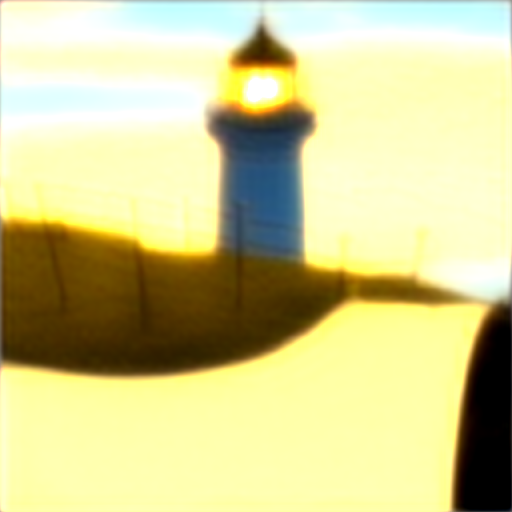
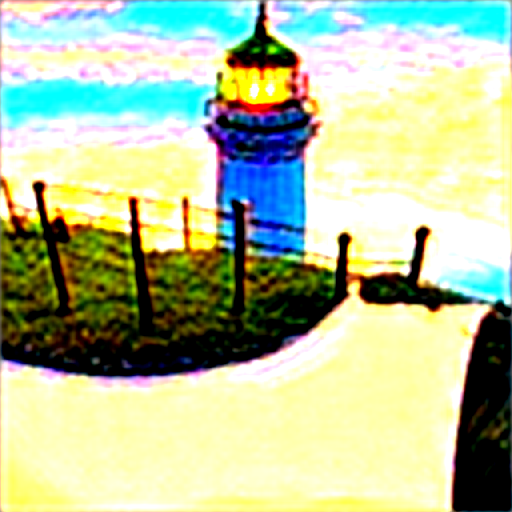
pipeline and outs

diff --git a/models/aerialbooth_noisy/pipeline.py b/models/aerialbooth_noisy/pipeline.py
@@ -565,27 +565,24 @@ class ImagicStableDiffusionPipeline(DiffusionPipeline):
         # noisy_latents = self.scheduler.add_noise(image_latents_hom, noise, timesteps)
         
         # latents = noisy_latents
-        if self.device.type == "mps":
-            # randn does not exist on mps
-            latents = torch.randn(latents_shape, generator=generator, device="cpu", dtype=latents_dtype).to(
-                self.device
-            )
-        else:
-            latents = torch.randn(latents_shape, generator=generator, device=self.device, dtype=latents_dtype)
-
-        
-        
+        # if self.device.type == "mps":
+        #     # randn does not exist on mps
+        #     latents = torch.randn(latents_shape, generator=generator, device="cpu", dtype=latents_dtype).to(
+        #         self.device
+        #     )
+        # else:
+        #     latents = torch.randn(latents_shape, generator=generator, device=self.device, dtype=latents_dtype)
         
         # noisy_latents =image_latents_hom + 0.1 * noise
 
         # print(f"noisy_latents: {noisy_latents.shape}")
 
-        if isinstance(image_hom, PIL.Image.Image):
-            self.image_hom = preprocess(image_hom).to(self.device)
-        init_latent_image_dist_hom = self.vae.encode(self.image_hom).latent_dist
-        image_latents_hom = init_latent_image_dist_hom.sample(generator=generator)
+        # if isinstance(image_hom, PIL.Image.Image):
+        #     self.image_hom = preprocess(image_hom).to(self.device)
+        # init_latent_image_dist_hom = self.vae.encode(self.image_hom).latent_dist
+        # image_latents_hom = init_latent_image_dist_hom.sample(generator=generator)
 
-        latents = latents + 0.01 * image_latents_hom
+        # latents = latents + 0.1 * image_latents_hom
         # noise = torch.randn(image_latents_hom.shape, device=self.device)
         # image_latents_hom_noisy = image_latents_hom + 0.01 * noise  
         # latents = image_latents_hom_noisy
